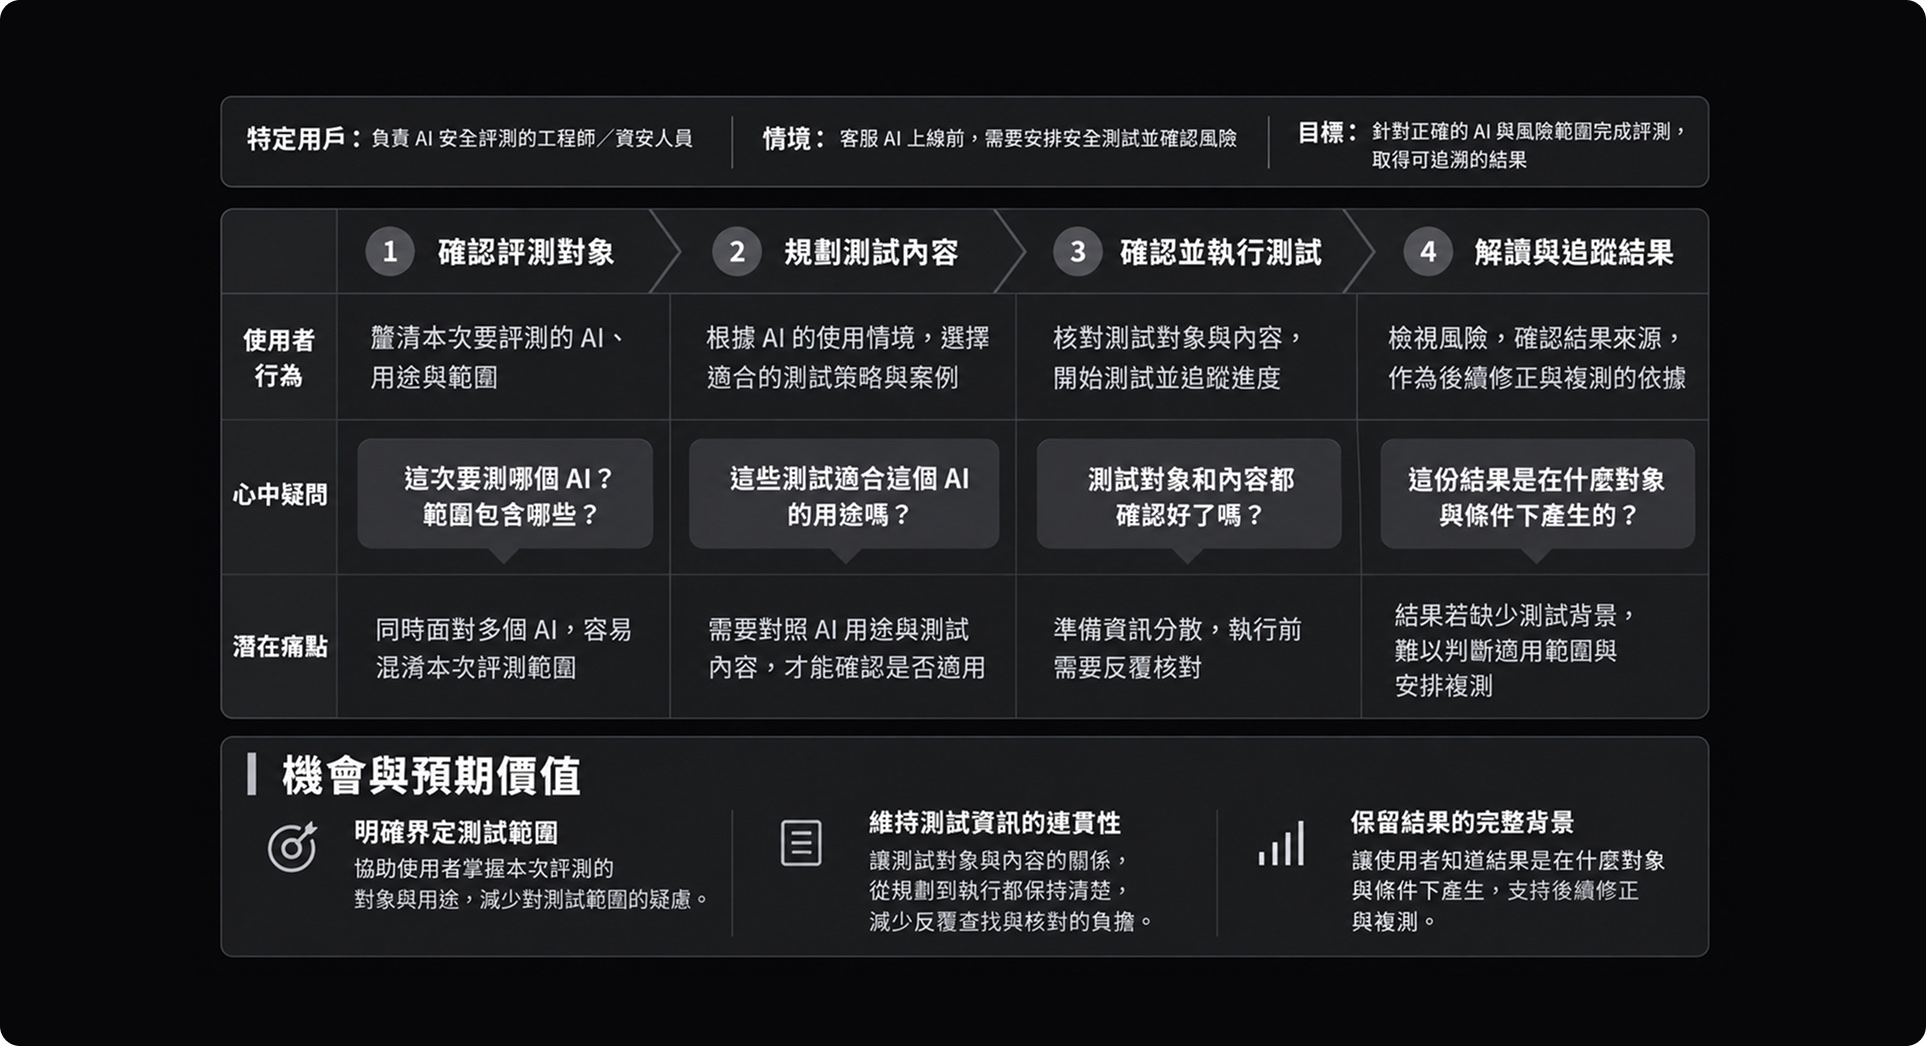
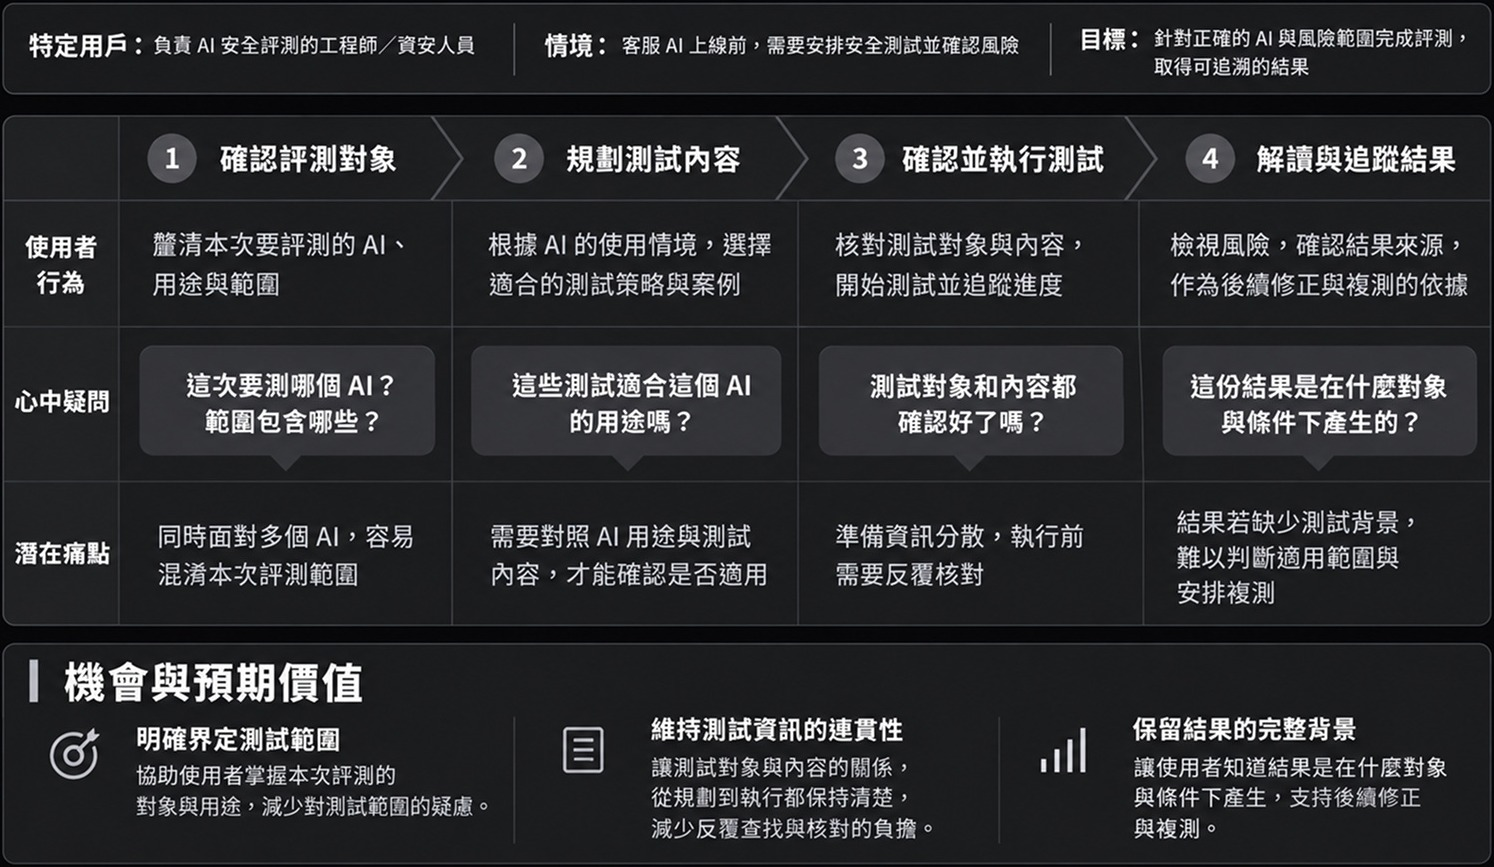
Replace About title full stop with gradient orb; left-align narrower Vulcan journey map

diff --git a/src/About.tsx b/src/About.tsx
@@ -43,6 +43,47 @@ function Logo({ id, mark }: { id: string; mark: string }) {
   )
 }
 
+// The full stop after "ME": the home page's liquid blob in its merged,
+// rounded shape, its colours slowly turning inside the outline. Colour fields blend inside the outline, film grain sits on top,
+// and the mask softens the edge.
+const ORB_PATH =
+  'M175 250 C170 175 230 115 315 110 C400 105 470 150 480 230 C490 300 455 380 375 405 C300 428 210 400 185 335 C178 310 177 280 175 250 Z'
+
+function Orb() {
+  return (
+    <svg className="ab-hero-dot" viewBox="60 40 530 460" aria-hidden="true">
+      <defs>
+        {/* Soft edge: the outline is blurred in the mask only, so the grain
+            inside stays crisp. */}
+        <filter id="ab-orb-edge" x="-25%" y="-25%" width="150%" height="150%">
+          <feGaussianBlur stdDeviation="14" />
+        </filter>
+        <mask id="ab-orb-mask" maskUnits="userSpaceOnUse" x="60" y="40" width="530" height="460">
+          <path d={ORB_PATH} fill="#fff" filter="url(#ab-orb-edge)" />
+        </mask>
+        <filter id="ab-orb-melt" x="-20%" y="-20%" width="140%" height="140%">
+          <feGaussianBlur stdDeviation="38" />
+        </filter>
+        <filter id="ab-orb-grain">
+          <feTurbulence type="fractalNoise" baseFrequency="0.9" numOctaves="2" stitchTiles="stitch" />
+          <feColorMatrix values="0 0 0 0 1  0 0 0 0 1  0 0 0 0 1  0 0 0 0.55 0" />
+        </filter>
+      </defs>
+      <g mask="url(#ab-orb-mask)">
+        <rect x="60" y="40" width="530" height="460" fill="#c95ae6" />
+        <g filter="url(#ab-orb-melt)" className="ab-dot-swirl">
+          <circle cx="210" cy="190" r="105" fill="#ff7ec9" />
+          <circle cx="420" cy="160" r="100" fill="#ff5fb8" />
+          <circle cx="330" cy="290" r="95" fill="#b36bff" />
+          <circle cx="180" cy="330" r="80" fill="#5f9dff" />
+          <circle cx="480" cy="250" r="95" fill="#5b7cff" />
+        </g>
+        <rect x="60" y="40" width="530" height="460" filter="url(#ab-orb-grain)" style={{ mixBlendMode: 'overlay' }} />
+      </g>
+    </svg>
+  )
+}
+
 export function About({ lang, backLabel }: { lang: Lang; backLabel: string }) {
   const a = about[lang]
   // Each half of the strip must be wider than the viewport, so short photo
@@ -59,7 +100,10 @@ export function About({ lang, backLabel }: { lang: Lang; backLabel: string }) {
         <div className="ab-hero-copy">
           <h1 id="ab-hero-h" className="ab-hero-title" lang="en">
             <span className="ab-hero-word">ABOUT</span>
-            <span className="ab-hero-word is-second">ME.</span>
+            <span className="ab-hero-word is-second">
+              ME
+              <Orb />
+            </span>
           </h1>
           <div className="ab-hero-text">
             <p>{a.intro.body[0]}</p>

diff --git a/src/App.css b/src/App.css
@@ -3702,10 +3702,28 @@
 }
 
 .ab-hero-copy {
+  position: relative;
+  isolation: isolate;
   display: flex;
   flex-direction: column;
   justify-content: center;
   padding: clamp(48px, 7vw, 96px) clamp(32px, 5vw, 80px) clamp(40px, 5vw, 64px) var(--col);
+}
+
+/* Same grid as the home hero: 56px cells, 1px lines, fading toward the
+   bottom. Drawn on a pseudo-element so the fade never touches the copy. */
+.ab-hero-copy::before {
+  content: '';
+  position: absolute;
+  inset: 0;
+  z-index: -1;
+  background-image:
+    linear-gradient(to right, #1a1a1c 1px, transparent 1px),
+    linear-gradient(to bottom, #1a1a1c 1px, transparent 1px);
+  background-size: 56px 56px;
+  -webkit-mask-image: linear-gradient(to bottom, #000 45%, transparent);
+  mask-image: linear-gradient(to bottom, #000 45%, transparent);
+  pointer-events: none;
 }
 
 .ab-hero-title {
@@ -3724,6 +3742,31 @@
 .ab-hero-word.is-second {
   animation-delay: 380ms;
 }
+
+/* The orb stands in for the full stop. Its box carries room for the soft
+   edge, so it is wider than the dot it draws and sits a little low. */
+.ab-hero-dot {
+  display: inline-block;
+  width: 0.44em;
+  height: auto;
+  margin-left: 0.01em;
+  vertical-align: -0.07em;
+  overflow: visible;
+}
+
+/* Colours turn around the dot's centre, as the home blob's balls circle
+   theirs; the outline itself stays put. */
+.ab-dot-swirl {
+  transform-origin: 328px 268px;
+  animation: ab-dot-swirl 9s linear infinite;
+}
+
+@keyframes ab-dot-swirl {
+  to {
+    rotate: 360deg;
+  }
+}
+
 
 @keyframes ab-slide-in {
   from {
@@ -4082,6 +4125,7 @@
   }
 
 
+
   .ab-skills {
     grid-template-columns: repeat(2, minmax(0, 1fr));
   }
@@ -4114,6 +4158,7 @@
 @media (prefers-reduced-motion: reduce) {
   .ab-hero-word,
   .ab-hero-text,
+  .ab-dot-swirl,
   .ab-strip-cell,
   .ab-strip-cell img {
     animation: none;

diff --git a/src/cases/vulcan.ts b/src/cases/vulcan.ts
@@ -1,7 +1,7 @@
 // Vulcan case study, transcribed from the designer's draft (2026-10-04).
 // Copy is the designer's own; Traditional Chinese only for now.
 
-export type Img = { src: string; alt: string; caption?: string; light?: boolean; max?: number; static?: boolean; bare?: boolean; square?: boolean; soft?: boolean; alignEnd?: boolean; panel?: boolean }
+export type Img = { src: string; alt: string; caption?: string; light?: boolean; max?: number; static?: boolean; bare?: boolean; square?: boolean; soft?: boolean; alignEnd?: boolean; alignStart?: boolean; panel?: boolean }
 
 export type Icon =
   | 'shield' | 'check' | 'award' | 'globe' | 'eye' | 'language' | 'scale'
@@ -213,7 +213,7 @@ export const vulcan: CaseData = {
           full: true,
           body: ['特定用戶為負責 AI 安全評測的工程師／資安人員：客服 AI 上線前，需要安排安全測試並確認風險，目標是針對正確的 AI 與風險範圍完成評測，取得可追溯的結果。'],
         },
-        { kind: 'image', img: I('journey', '使用者旅程圖：確認評測對象、規劃測試內容、確認並執行測試、解讀與追蹤結果四個階段的使用者行為、心中疑問與潛在痛點，以及機會與預期價值', { static: true, panel: true }) },
+        { kind: 'image', img: I('journey', '使用者旅程圖：確認評測對象、規劃測試內容、確認並執行測試、解讀與追蹤結果四個階段的使用者行為、心中疑問與潛在痛點，以及機會與預期價值', { static: true, bare: true, max: 760, alignStart: true }) },
       ],
     },
     {

diff --git a/src/CaseStudy.tsx b/src/CaseStudy.tsx
@@ -119,7 +119,7 @@ function Shot({ img }: { img: Img }) {
   return (
     <figure
       className="cs-shot"
-      style={img.max ? { maxWidth: img.max, ...(img.alignEnd ? { justifySelf: 'end' } : null) } : undefined}
+      style={img.max ? { maxWidth: img.max, ...(img.alignEnd ? { justifySelf: 'end' } : img.alignStart ? { justifySelf: 'start' } : null) } : undefined}
     >
       {img.static ? (
         <div className="cs-zoom is-static">
